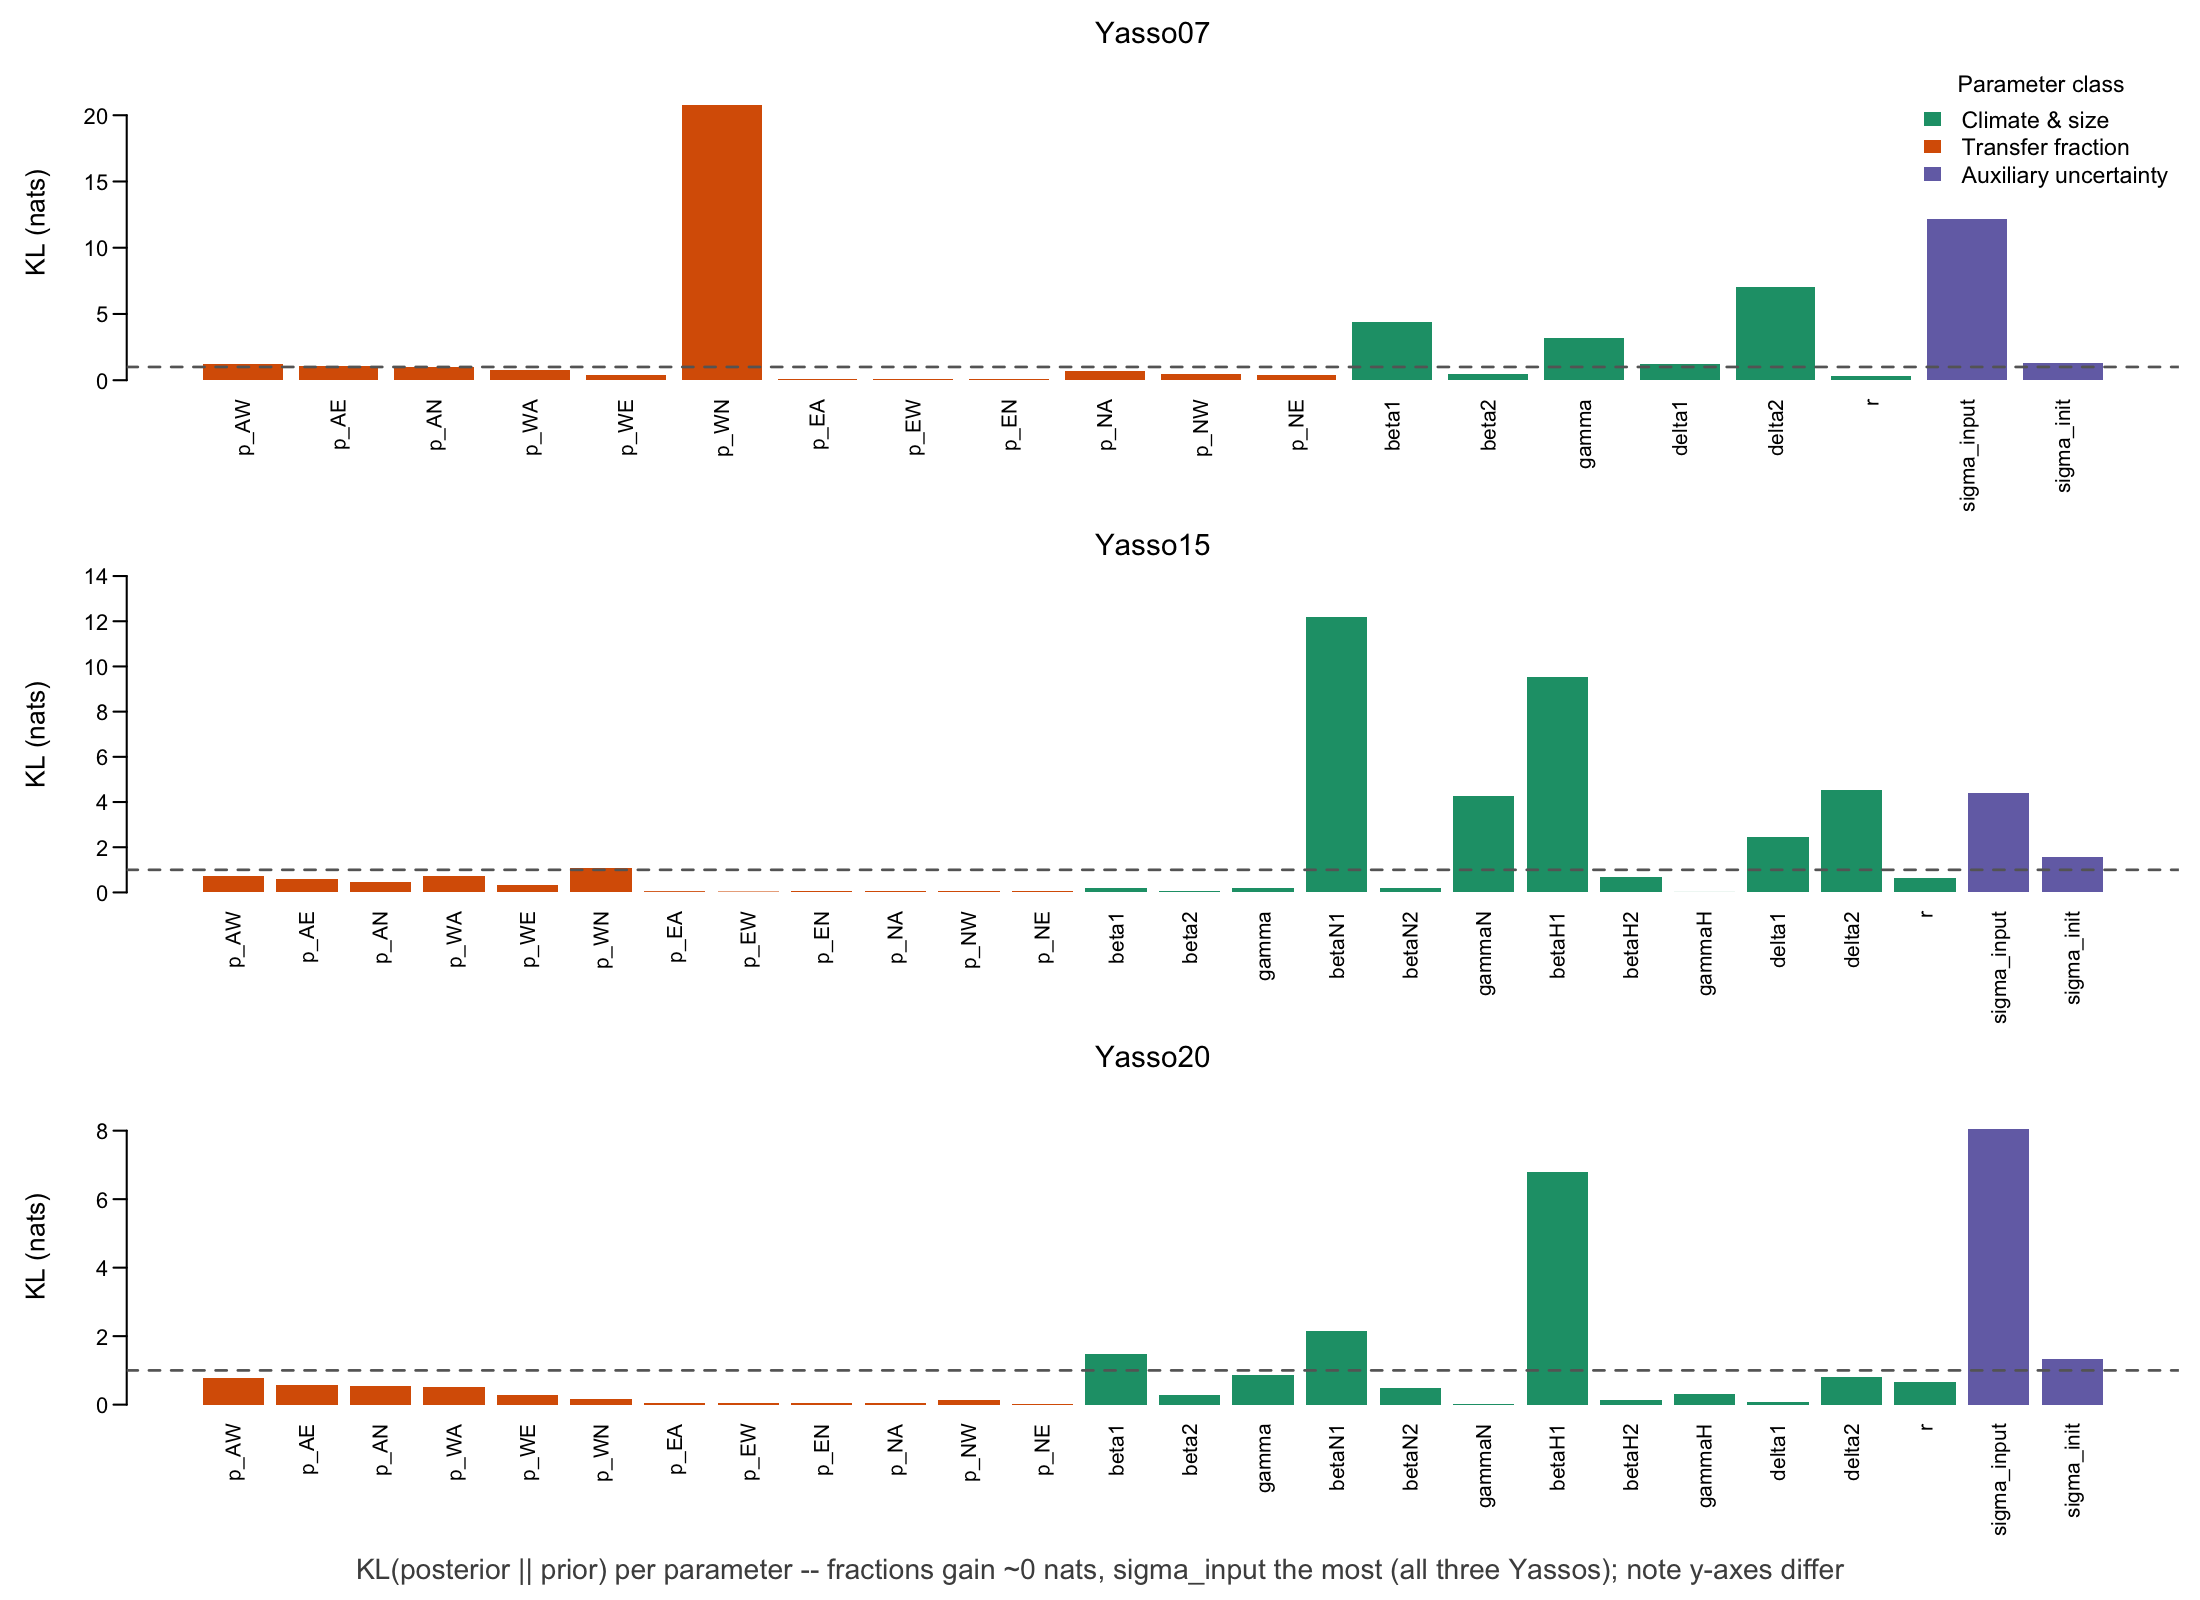
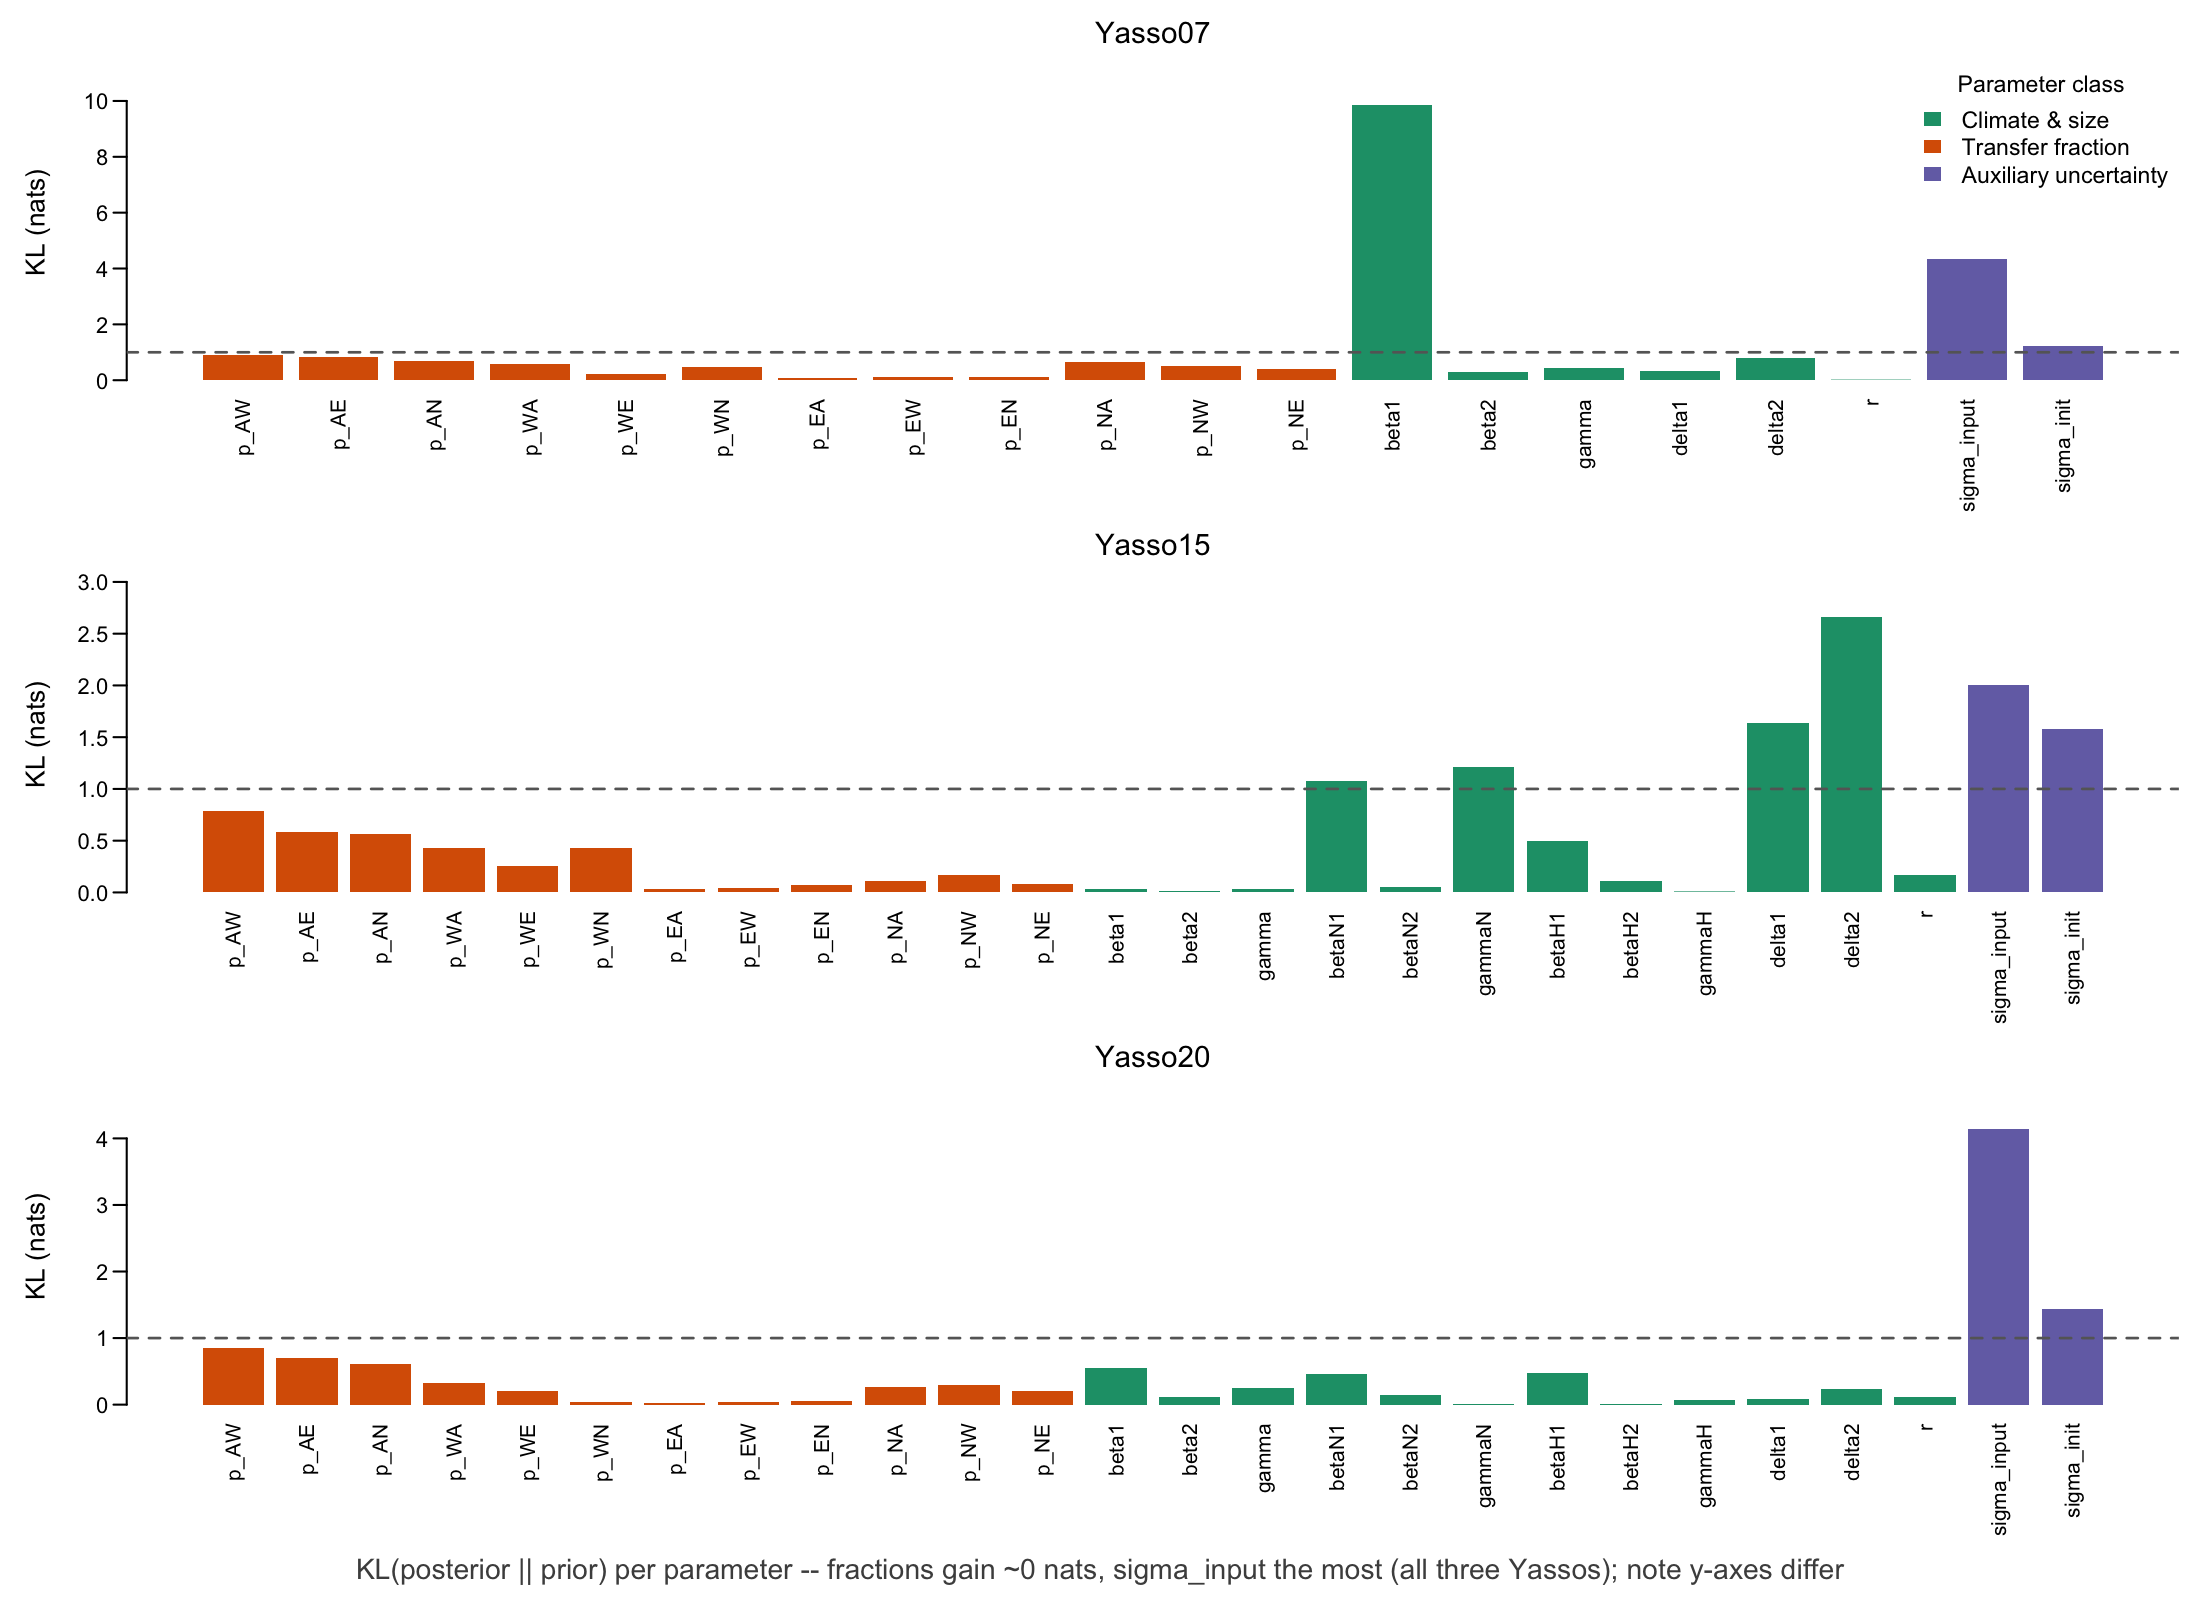
results: sigma=0.72 run lands — all six converge, MRT +18-34%, TP3 claim retracted
Roihu jobs 563524-563529 (RUN_IDs 20260810_152914 SP1/TP2/TP3, _152915/_152916/
_152917 Yasso07/15/20). Stages 2-4 and 24/25 manuscript figures regenerated.

- sigma self-consistency VALIDATED: residual log-sd 0.712-0.744 in all six against
  the assumed 0.720. The plug-in choice is retrospectively justified, not circular.
  New: the spread is heteroscedastic by campaign (TP2 1985 0.969 -> 2024 0.535).
- ALL SIX CONVERGED, including TP3 (psrf 1.0053, was 18.7) and TP2 (was 15.6).
  This RETRACTS "TP3 does not converge and that is the result": the bimodality was
  an artefact of the over-wide climate priors (Tuomi 95%-read-as-1sigma), not
  structural non-identifiability of the third pool. Attribution is not settled --
  climate widths and sigma moved together, and the local test that appears to
  separate them ran 3x6000 vs production 5x50000.
- Intrinsic MRT rose 18-34% to 15.17 / 21.91 / 17.37 vs published 33.39 / 30.27 /
  25.02. For Yasso15/20 that rise is attributable to sigma alone (their climate
  priors were untouched), so the error scale was part of the MRT story, not all.
- sigma_input fell only 7-16% (now 1.84-2.49). Level ridge confirmed: Yasso15's
  MRT x sigma_input goes 43.0 -> 44.7, constant to 4%.
- NOT fixed: bias grew to +3.7..+6.8 tC/ha, R2 still ~0, and 2006-2024 is a source
  in all six (-0.018..-0.433) against observed +0.209.

intrinsic_mrt.R run IDs updated in place. F9_effective_flux is deliberately left
[…]

diff --git a/manuscript/figures/T1_model_summary.tex b/manuscript/figures/T1_model_summary.tex
@@ -4,11 +4,11 @@
 Model & Pools & Free & $R^2$ & $R^2$ & RMSE & Eff.\ flux & $\sigma_{\mathrm{init}}$ \\
  & & params & (cal) & (hold) & (hold) & $\sigma_{\mathrm{inp}}\bar J$ & \\
 \hline
-SP1 & 1 & 6 & 0.007 & 0.002 & 53 & 5.1 & 1.21 \\
-TP2 & 2 & 7 & 0.005 & 0.001 & 54 & 6.3 & 0.98 \\
-TP3 & 3 & 9 & 0.006 & 0.002 & 53 & 6.4 & 0.94 \\
-Yasso07 & 5 & 20 & 0.008 & 0.002 & 53 & 7.2 & 0.80 \\
-Yasso15 & 5 & 26 & 0.017 & 0.014 & 54 & 6.0 & 0.55 \\
-Yasso20 & 5 & 26 & 0.012 & 0.007 & 55 & 6.6 & 0.58 \\
+SP1 & 1 & 6 & 0.007 & 0.002 & 53 & 4.5 & 1.11 \\
+TP2 & 2 & 7 & 0.005 & 0.002 & 55 & 5.9 & 0.81 \\
+TP3 & 3 & 9 & 0.005 & 0.001 & 55 & 5.9 & 0.78 \\
+Yasso07 & 5 & 20 & 0.012 & 0.006 & 54 & 6.2 & 0.64 \\
+Yasso15 & 5 & 26 & 0.019 & 0.017 & 54 & 5.0 & 0.53 \\
+Yasso20 & 5 & 26 & 0.013 & 0.009 & 55 & 6.0 & 0.53 \\
 \hline
 \end{tabular}

diff --git a/manuscript/figures/T2_fraction_ridges.tex b/manuscript/figures/T2_fraction_ridges.tex
@@ -3,11 +3,11 @@
 \hline
  Source pool & Fraction pair & Posterior $r$ & Interpretation \\
 \hline
-N & $p_{NA}\!\leftrightarrow\! p_{NE}$ & -0.97 & net-flux trade-off \\
+N & $p_{NA}\!\leftrightarrow\! p_{NE}$ & -0.98 & net-flux trade-off \\
 E & $p_{EA}\!\leftrightarrow\! p_{EN}$ & -0.86 & net-flux trade-off \\
 A & $p_{AW}\!\leftrightarrow\! p_{AN}$ & -0.83 & net-flux trade-off \\
-A & $p_{AW}\!\leftrightarrow\! p_{AE}$ & -0.80 & net-flux trade-off \\
-N & $p_{NA}\!\leftrightarrow\! p_{NW}$ & -0.71 & net-flux trade-off \\
-W & $p_{WA}\!\leftrightarrow\! p_{WN}$ & -0.58 & net-flux trade-off \\
+A & $p_{AW}\!\leftrightarrow\! p_{AE}$ & -0.79 & net-flux trade-off \\
+N & $p_{NA}\!\leftrightarrow\! p_{NW}$ & -0.70 & net-flux trade-off \\
+W & $p_{WA}\!\leftrightarrow\! p_{WN}$ & -0.57 & net-flux trade-off \\
 \hline
 \end{tabular}

diff --git a/NEXT_SESSION.md b/NEXT_SESSION.md
@@ -11,7 +11,53 @@
 
 ---
 
-## 0. RUN IN FLIGHT — Roihu jobs 563524–563529, launched 2026-08-10 ~15:30
+## 0a. RESULTS — Roihu jobs 563524–563529 LANDED 2026-08-11
+
+RUN_IDs `20260810_152914` (SP1/TP2/TP3), `_152915` (Yasso07), `_152916` (Yasso15), `_152917`
+(Yasso20). Stages 2–4 and the full figure set regenerated locally 2026-08-11.
+
+**1. σ self-consistency — VALIDATED.** sd(log residual) = 0.712 / 0.735 / 0.737 / 0.737 / 0.744 /
+0.732 (SP1…Yasso20) against the assumed 0.720. It is a fixed point: widening the likelihood 1.63×
+moved the residual spread ~2%. **This result is bankable and needs no revisiting.**
+
+**2. ALL SIX CONVERGED — including TP3.** Multivariate psrf 1.001–1.024, no parameter > 1.05.
+TP2 was 15.6 and TP3 18.7 with ESS 4–5. **⚠ This falsifies §3 below** — see the rewritten §3.
+
+**3. MRT rose 18–34%** (`doublechecks/intrinsic_mrt.R`, run IDs updated in place):
+
+| | before | now | published | ratio |
+|---|---|---|---|---|
+| Yasso07 | 11.3 | **15.17** | 33.39 | 0.34 → 0.45 |
+| Yasso15 | 17.7 | **21.91** | 30.27 | 0.58 → 0.72 |
+| Yasso20 | 14.7 | **17.37** | 25.02 | 0.59 → 0.69 |
+
+Attribution is clean for Yasso15/20: their climate priors were NOT touched (genuine posterior SDs),
+so their +24%/+18% is the σ change alone. Yasso07 got both corrections and moved most.
+**So the error-model scale WAS part of the MRT story — but not all of it.**
+
+**4. σ_input fell 7–16% everywhere** — SP1 2.06→1.84, TP2 2.55→2.38, TP3 2.59→2.39,
+Yasso07 2.92→2.49, Yasso15 2.43→2.04, Yasso20 2.67→2.42. The level ridge holds exactly:
+Yasso15's MRT×σ_input goes 43.0 → 44.7, constant to 4%.
+
+**5. Still unfixed.** Bias GREW (+3.7 to +6.8 tC/ha, Yasso20 worst) — expected, a wider σ penalises
+the level offset less. R² still ~0 (0.004–0.019). And **2006–2024 is a source in all six**
+(−0.018 to −0.433) against observed +0.209; full-window positive in five of six (Yasso15 +0.379 vs
+obs +0.312) but by cancellation.
+
+**Next lever (NOT launched — pending discussion 2026-08-11).** Tighten `sigma_input` log-SD
+0.50 → 0.20, centre 1.30 (Lehtonen & Heikkinen 2015). The ridge makes the outcome predictable:
+σ_input forced to 1.30 implies Yasso15 MRT ≈ 44.7/1.30 ≈ **34 yr** vs published 30.3. Two caveats
+to state out loud: (a) it partly IMPOSES the MRT answer — defensible because the width comes from
+independent NFI sampling error rather than the SOC being fitted, but it must be declared in the
+methods; (b) the note to apply it to the CONTEMPORARY flux only is NOT implemented, so the global
+version risks σ_init absorbing the slack (watch it — currently 0.53–1.11).
+
+**Known gap:** the multimodel projection plot is skipped — `nfi_region` is absent from
+`site_raw.csv`; run `assign_nfi_regions.R` first.
+
+---
+
+## 0b. (historical) RUN IN FLIGHT — Roihu jobs 563524–563529, launched 2026-08-10 ~15:30
 
 | job | model | | job | model |
 |---|---|---|---|---|
@@ -91,7 +137,32 @@ beyond the level (plot-distribution shape, temporal profile) that a global multi
 
 ---
 
-## 3. TP3 DOES NOT CONVERGE — AND THAT IS THE RESULT
+## 3. ⚠ RETRACTED 2026-08-11 — TP3 *DOES* CONVERGE
+
+**Everything below this box is superseded. Do not report it.** In run `20260810_152914` TP3 has
+all 9 parameters R-hat < 1.05 and multivariate psrf **1.0053**. The collapsed mode is gone, not
+outvoted: `p_S` is cleanly unimodal at 0.455 (90% 0.354–0.568), where the old quantiles ran
+0.004 / 0.006 / 0.583 / 0.635 — the bimodal fingerprint — and `gamma` no longer reaches the
+climate-off value (old 97.5% −0.14, new −1.19).
+
+**The bimodality was an artefact of the over-wide climate priors** (the Tuomi 95%-as-1σ error:
+`beta1` 0.26→0.133, `gamma` 0.20→0.102), not structural non-identifiability of the third pool. The
+degenerate mode required climate switched off; corrected to source, that region is unaffordable.
+
+**Attribution is not fully settled.** This run moved climate widths *and* σ together. The
+`HIKET_PRIOR_TIGHTEN=0.5` test cited below looks like it separates them, but its chains file is
+1.8 MB against production's 20.9 MB (~11× fewer iterations), so its R-hat 1.3–18.4 may be
+incomplete mixing rather than genuine bimodality. **Do not lean on it.** A clean separation needs a
+full-length run at σ=0.442 with corrected climate priors — cheap, and worth doing if the
+prior-width mechanism is to be claimed in print.
+
+**Consequence for the manuscript:** the complexity thread loses its mechanism and reverts to a
+skill comparison. The mode-anatomy numbers below stay valid as a description of the OLD posterior
+and are still usable as a methods cautionary point about prior width.
+
+<details><summary>Superseded text</summary>
+
+### TP3 DOES NOT CONVERGE — AND THAT IS THE RESULT
 
 Its two modes fit within **4.2 nats** (the collapsed mode slightly *better*), posterior mass split
 60/40. So the data cannot distinguish a three-pool cascade from one effective pool with a flat
@@ -108,6 +179,8 @@ diagnostic or TP3's convergence, not obviously both.**
 
 Report the non-identifiability rather than fixing it: it gives the complexity thread a mechanism
 (SP1 and TP2 identifiable, TP3 not, boundary at the third pool) instead of only a skill comparison.
+
+</details>
 
 ---
 

diff --git a/CLAUDE.md b/CLAUDE.md
@@ -549,7 +549,19 @@ noise the error model should absorb, not as data error.
   *direction*); watch ESS on σ_init. Scripts: `doublechecks/prerun_direction.R`,
   `ablation_stock_change.R`, `production_fit_by_campaign.R`.
 
-- **🚀 ROIHU RUN IN FLIGHT — jobs 563524–563529, 2026-08-10 ~15:30** (SP1 563524, TP2 563525,
+- **✅ LANDED 2026-08-11 — jobs 563524–563529.** RUN_IDs `20260810_152914` (SP1/TP2/TP3),
+  `_152915` (Yasso07), `_152916` (Yasso15), `_152917` (Yasso20). Stages 2–4 and 24/25 manuscript
+  figures regenerated locally the same day. **Results:** (1) σ=0.72 **self-consistent** — residual
+  sd 0.712–0.744 in all six, so the plug-in choice is validated, not circular; (2) **all six
+  converged**, including TP3 and TP2 (were psrf 18.7 / 15.6) ⇒ TP3 retraction above; (3) intrinsic
+  MRT rose 18–34% to **15.17 / 21.91 / 17.37** vs published 33.39 / 30.27 / 25.02 — for Yasso15/20
+  that rise is attributable to σ **alone** (their climate priors were untouched); (4) σ_input fell
+  only 7–16% (now 1.84–2.49); (5) **not** fixed — bias grew to +3.7…+6.8 tC/ha, R² still ~0, and
+  2006–2024 is a source in all six vs observed +0.209. Level ridge confirmed: Yasso15's
+  MRT×σ_input 43.0→44.7, constant to 4%. **Next lever (NOT launched, pending coauthors):**
+  σ_input log-SD 0.50→0.20 ⇒ predicted Yasso15 MRT ≈ 34 yr. Superseded launch note follows:
+
+- **🚀 ~~ROIHU RUN IN FLIGHT~~ — jobs 563524–563529, 2026-08-10 ~15:30** (SP1 563524, TP2 563525,
   TP3 563526, Yasso07 563527, Yasso15 563528, Yasso20 563529). Commit `3b0d533`. ~13–19 h ⇒
   results 2026-08-11. **Tests ONE factor: the error-model scale.** `HIKET_SIGMA_TOTAL=0.72`
   replaces `sigma_obs_fixed` (0.442) — the latter is the MEASUREMENT CV but was used as the TOTAL
@@ -589,7 +601,16 @@ noise the error model should absorb, not as data error.
   posterior SDs from the `.dat` samples. Halves the ensemble's climate asymmetry (simple models vs
   Yasso15: 5.7× → 2.9×).
 
-- **🚩 TP3 DOES NOT CONVERGE — AND THAT IS THE RESULT.** Its two modes fit within **4.2 nats**
+- **⚠ RETRACTED 2026-08-11 — TP3 *DOES* CONVERGE.** In run `20260810_152914` all 9 parameters have
+  R-hat < 1.05 (multivariate psrf 1.0053); `p_S` is cleanly unimodal at 0.455 (90% 0.354–0.568)
+  where the old quantiles ran 0.004/0.006/0.583/0.635, and `gamma` no longer reaches the
+  climate-off value. **The bimodality was an artefact of the over-wide climate priors** (Tuomi
+  95%-as-1σ), not structural non-identifiability of the third pool. Attribution is not fully
+  settled — this run moved climate widths and σ together, and the local test that appears to
+  separate them ran 3×6000 vs production 5×50000, so its R-hat may be incomplete mixing. The
+  complexity thread loses this mechanism. Superseded text follows:
+
+- **🚩 ~~TP3 DOES NOT CONVERGE — AND THAT IS THE RESULT.~~ (SUPERSEDED, see above)** Its two modes fit within **4.2 nats**
   (the collapsed `p_S`→0 mode slightly BETTER), posterior mass 60/40. The data cannot distinguish
   a 3-pool cascade from one effective pool with a flat climate response ⇒ **the third pool is not
   identifiable from 2 SOC obs/plot**, and R-hat 18 is the correct output for a bimodal posterior,
